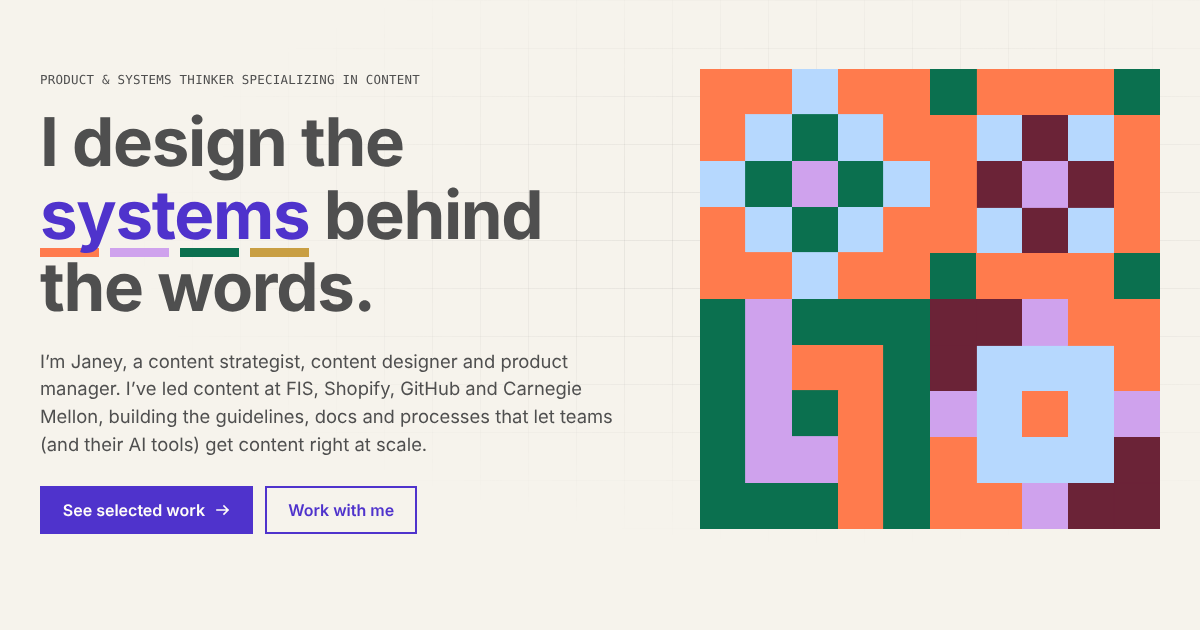
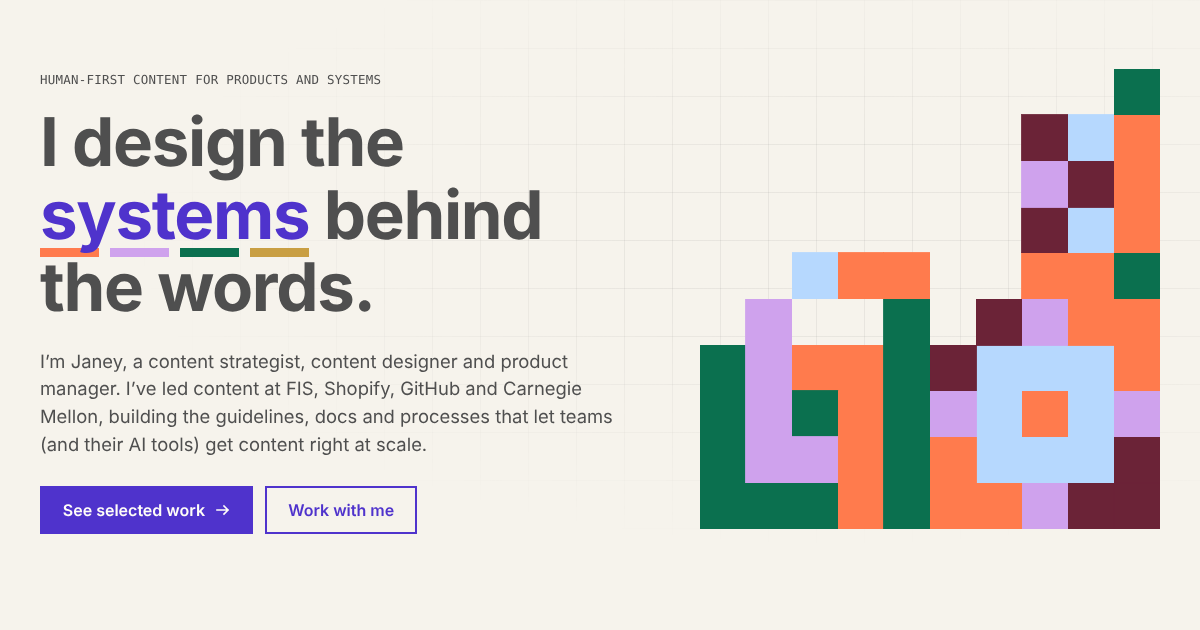
New tagline: "Human-first content for products and systems"
Updates the hero label, footer, page titles, meta description, README
and the social preview image.

Claude-Session: https://claude.ai/code/session_01CES4MxNcGYPvVgqTCFYaUm

Changed region(s): [[0.5858, 0.0905, 0.9558, 0.573], [0.0308, 0.1206, 0.3392, 0.1508]]

diff --git a/README.md b/README.md
@@ -1,6 +1,6 @@
 # janeys.work
 
-Portfolio and services site for Janey Annis: product & systems thinker specializing in content.
+Portfolio and services site for Janey Annis: human-first content for products and systems.
 
 - **Zero dependencies.** A ~100-line Node script (`build.mjs`) renders every page to static HTML in `dist/`. There's nothing to `npm install`, nothing to keep updated, and nothing to break.
 - **Content lives in plain JS files** in `src/content/`, so editing a case study is editing text.
